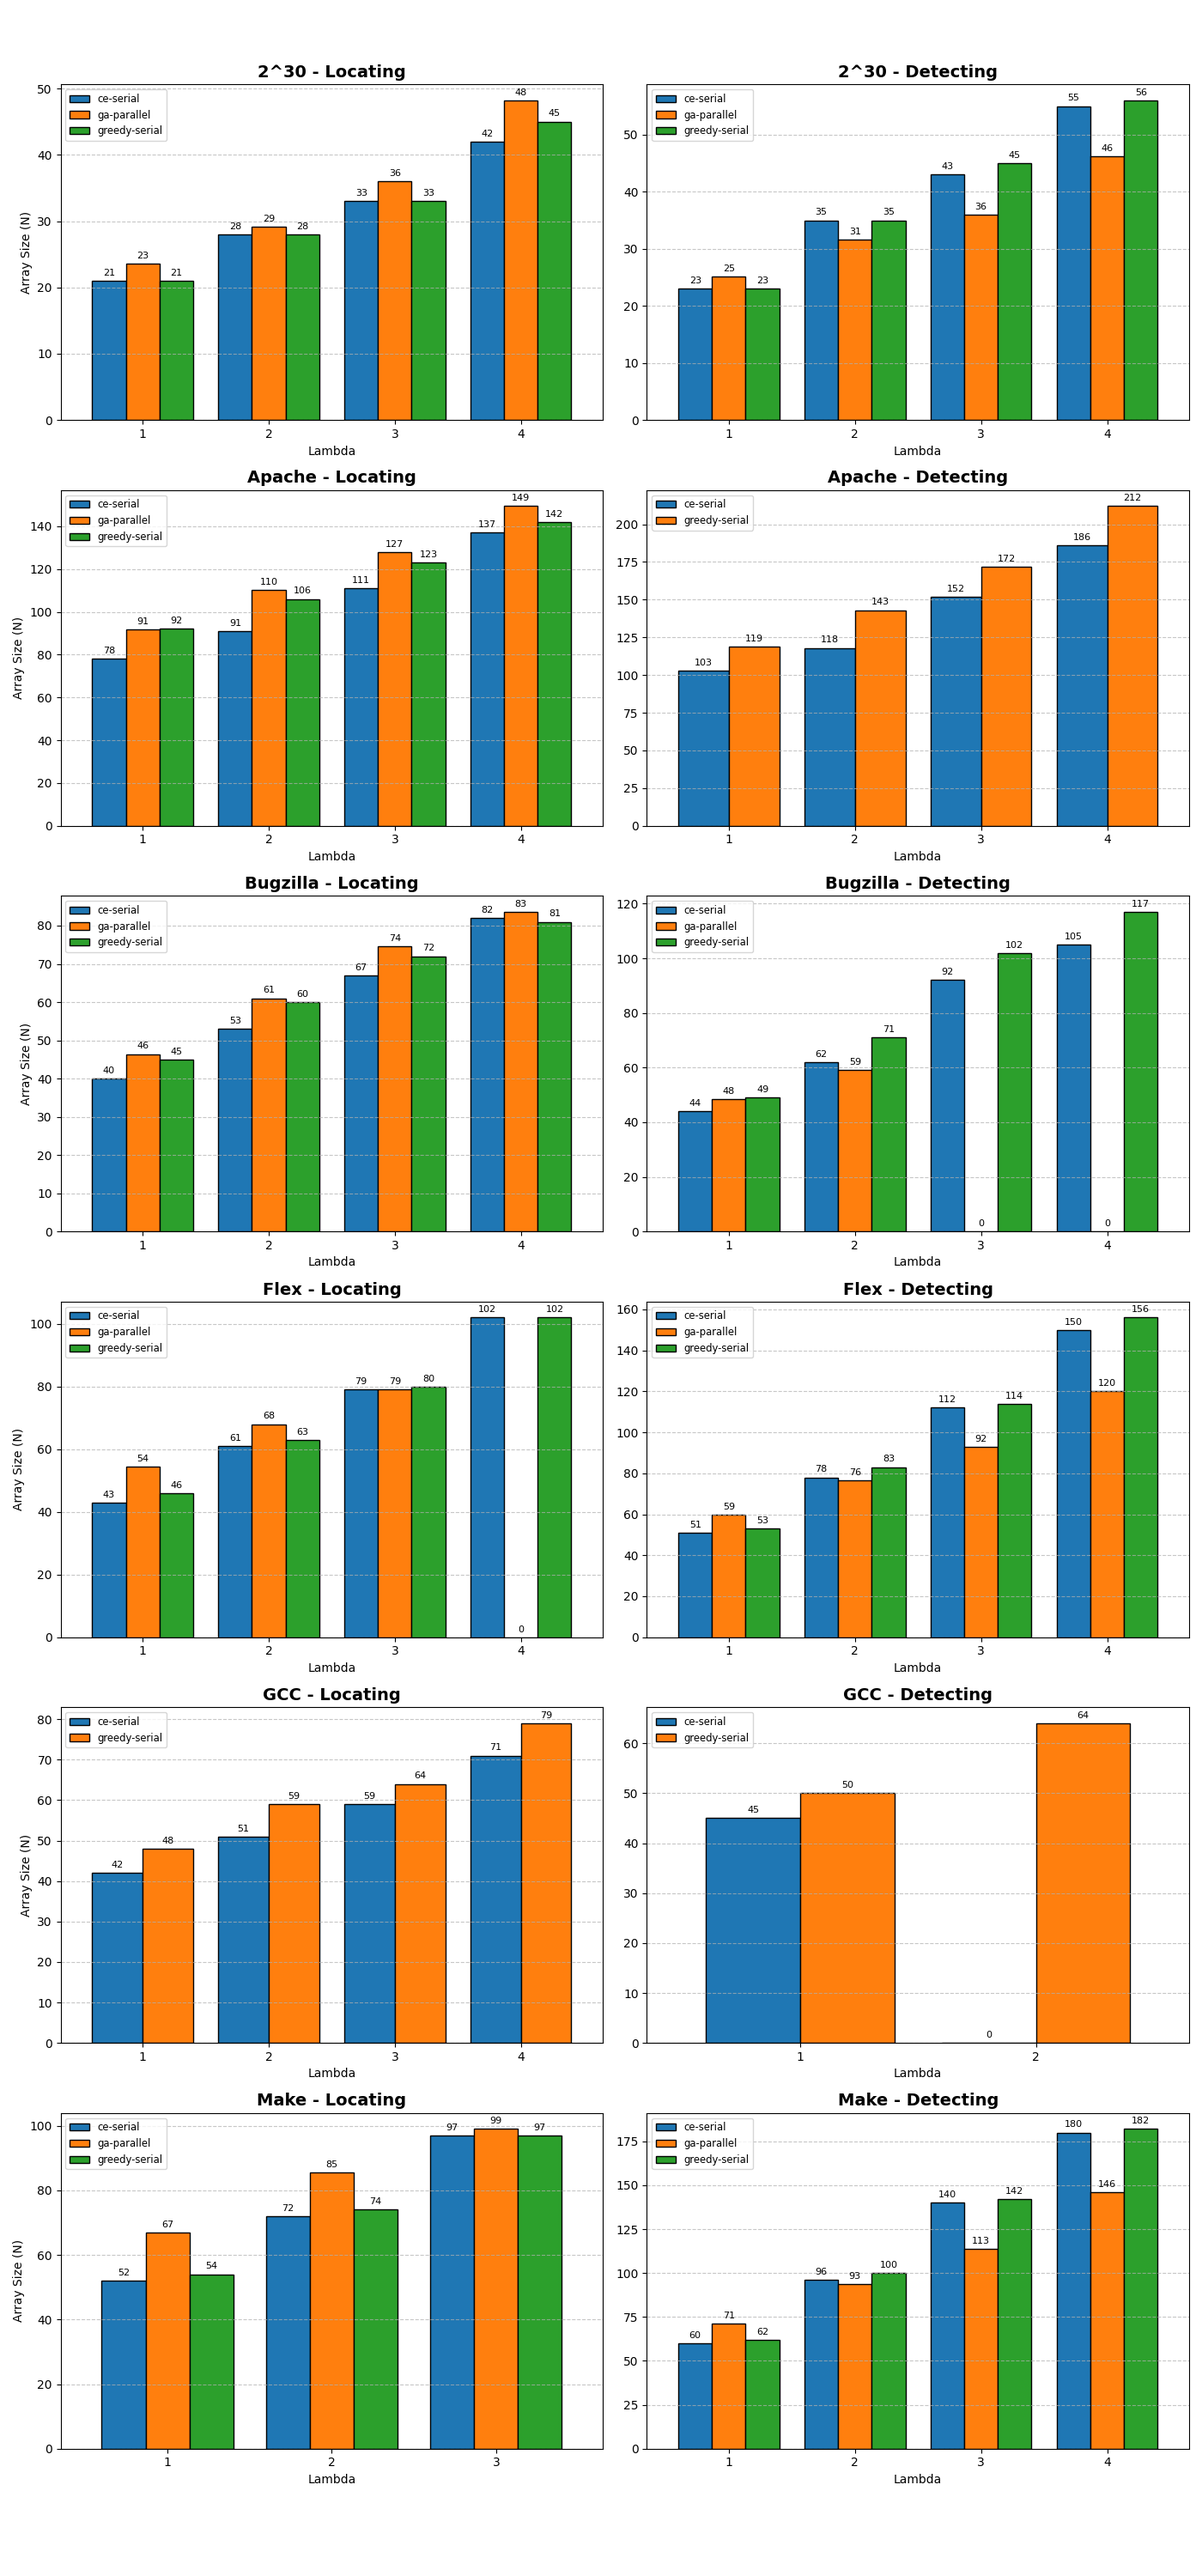
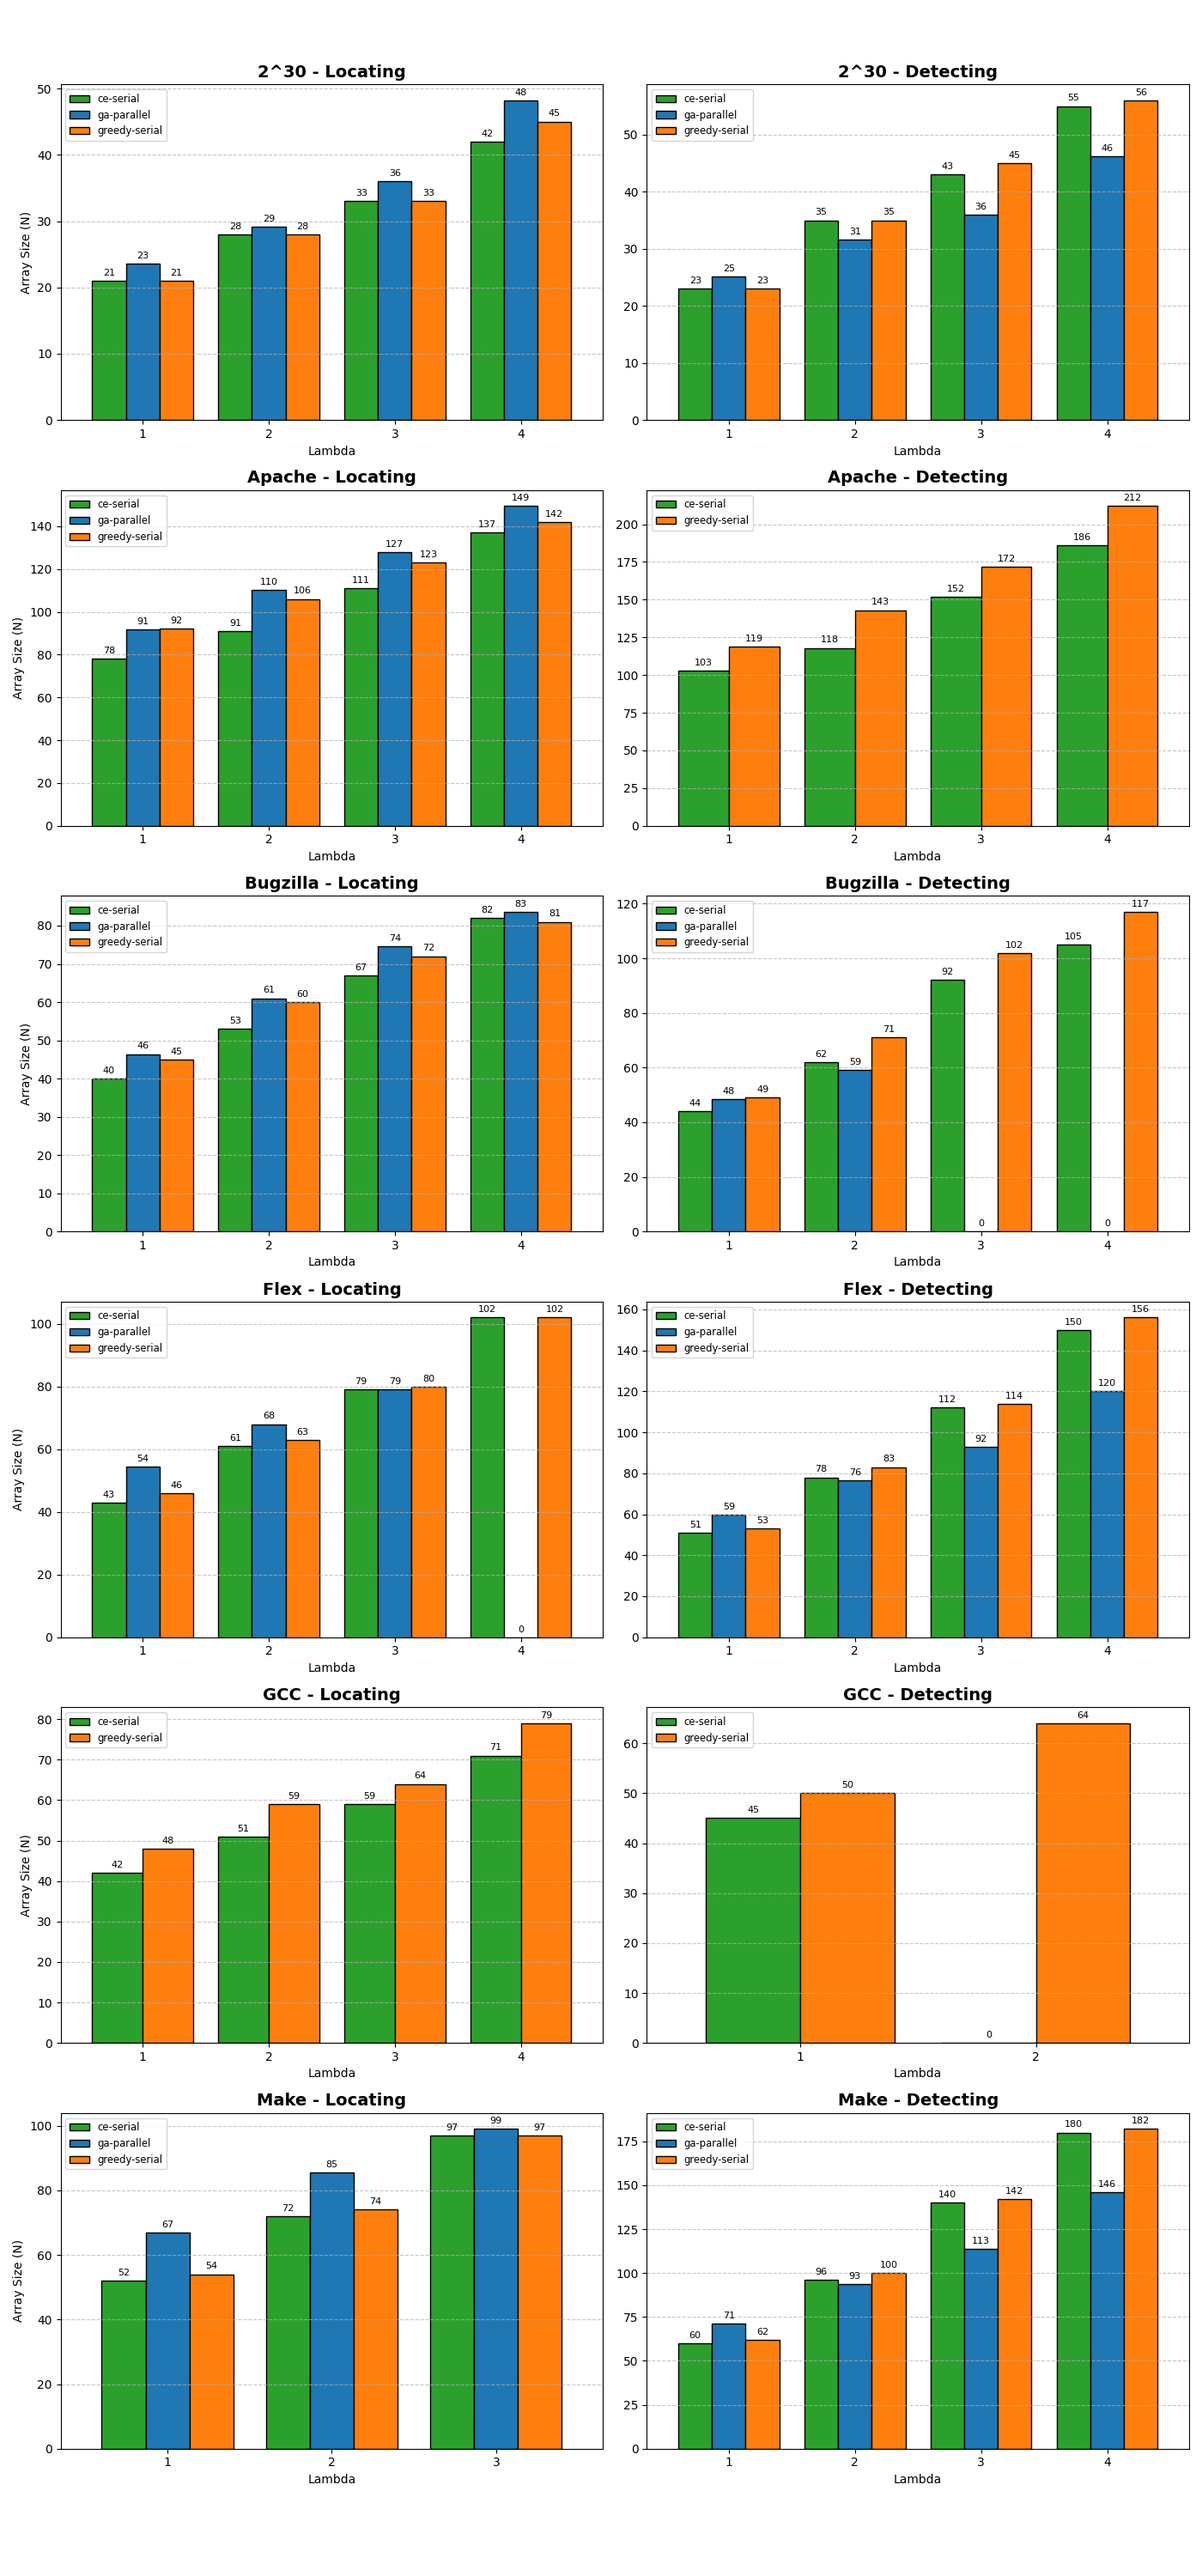
Refactor code structure for improved readability and maintainability

diff --git a/visualize_sizes.py b/visualize_sizes.py
@@ -6,8 +6,19 @@ import matplotlib.pyplot as plt
 import math
 
 # --- Configuration ---
+# Change this to "benchmark_logs_subset" if you are running the subset
 LOG_DIR = "benchmark_logs"
 OUTPUT_PREFIX = "benchmark_sizes_comparison"
+
+# --- FIXED COLOR PALETTE ---
+COLOR_MAP = {
+    'ga-parallel': '#1f77b4',    # Blue
+    'greedy-serial': '#ff7f0e',  # Orange
+    'ce-serial': '#2ca02c',      # Green
+    'ga-serial': '#9467bd',      # Purple
+    'greedy-parallel': '#8c564b',# Brown
+    'ce-parallel': '#e377c2'     # Pink
+}
 # ---------------------
 
 def parse_log_files(log_dir):
@@ -23,9 +34,9 @@ def parse_log_files(log_dir):
         if not filename.endswith(".log"): continue
         match = filename_re.match(filename)
         if not match: continue
-
+            
         config, array_type, method, policy, trial = match.groups()
-
+        
         try:
             with open(os.path.join(log_dir, filename), 'r') as f:
                 content = f.read()
@@ -46,36 +57,31 @@ def parse_log_files(log_dir):
     return parsed_data
 
 def generate_comparison_chart(df, configs, filename_suffix):
-    """
-    Generates a figure with len(configs) rows and 2 columns (Locating vs Detecting).
-    """
     if not configs:
         return
 
     num_rows = len(configs)
     fig, axes = plt.subplots(nrows=num_rows, ncols=2, figsize=(14, 5 * num_rows), squeeze=False)
 
-    # Global titles for columns (optional, but nice)
-    # plt.figtext(0.25, 0.99, "Locating Arrays", ha='center', fontsize=16, fontweight='bold')
-    # plt.figtext(0.75, 0.99, "Detecting Arrays", ha='center', fontsize=16, fontweight='bold')
-
     for i, config in enumerate(configs):
-        # Filter data for this specific config
         config_data = df[df['Config'] == config]
-
+        
         # --- LEFT PLOT: Locating ---
         ax_loc = axes[i][0]
         loc_data = config_data[config_data['ArrayType'] == 'locating']
-
+        
         if not loc_data.empty:
             pivot_loc = loc_data.pivot_table(index='Lambda', columns='RunType', values='N_total')
-            pivot_loc.plot(kind='bar', ax=ax_loc, width=0.8, edgecolor='black', rot=0)
+            
+            # Map columns to fixed colors
+            colors_loc = [COLOR_MAP.get(col, '#7f7f7f') for col in pivot_loc.columns]
+            
+            pivot_loc.plot(kind='bar', ax=ax_loc, width=0.8, edgecolor='black', rot=0, color=colors_loc)
             ax_loc.set_title(f"{config} - Locating", fontsize=14, fontweight='bold')
             ax_loc.set_ylabel("Array Size (N)")
             ax_loc.grid(axis='y', linestyle='--', alpha=0.7)
             ax_loc.legend(loc='upper left', fontsize='small')
-
-            # Add labels
+            
             for container in ax_loc.containers:
                 ax_loc.bar_label(container, fmt='%d', padding=3, fontsize=8)
         else:
@@ -85,23 +91,26 @@ def generate_comparison_chart(df, configs, filename_suffix):
         # --- RIGHT PLOT: Detecting ---
         ax_det = axes[i][1]
         det_data = config_data[config_data['ArrayType'] == 'detecting']
-
+        
         if not det_data.empty:
             pivot_det = det_data.pivot_table(index='Lambda', columns='RunType', values='N_total')
-            pivot_det.plot(kind='bar', ax=ax_det, width=0.8, edgecolor='black', rot=0)
+            
+            # Map columns to fixed colors
+            colors_det = [COLOR_MAP.get(col, '#7f7f7f') for col in pivot_det.columns]
+            
+            pivot_det.plot(kind='bar', ax=ax_det, width=0.8, edgecolor='black', rot=0, color=colors_det)
             ax_det.set_title(f"{config} - Detecting", fontsize=14, fontweight='bold')
-            ax_det.set_ylabel("") # Hide Y label on right to save space? Or keep it.
+            ax_det.set_ylabel("") 
             ax_det.grid(axis='y', linestyle='--', alpha=0.7)
             ax_det.legend(loc='upper left', fontsize='small')
 
-            # Add labels
             for container in ax_det.containers:
                 ax_det.bar_label(container, fmt='%d', padding=3, fontsize=8)
         else:
             ax_det.text(0.5, 0.5, "No Detecting Data\n(Timeout?)", ha='center', va='center')
             ax_det.set_title(f"{config} - Detecting")
 
-    plt.tight_layout(rect=[0, 0.03, 1, 0.98]) # Make room for main title if needed
+    plt.tight_layout(rect=[0, 0.03, 1, 0.98]) 
     output_file = f"{OUTPUT_PREFIX}_{filename_suffix}.png"
     plt.savefig(output_file)
     print(f"Saved comparison chart to '{output_file}'")
@@ -112,22 +121,22 @@ if __name__ == "__main__":
     if not data:
         print("No data parsed.")
         sys.exit(0)
-
+        
     df = pd.DataFrame(data)
-
-    # 1. Aggregate Trials (Mean N)
+    
+    # Aggregate Trials (Mean N)
     df_agg = df.groupby(['Config', 'ArrayType', 'Lambda', 'RunType'])['N_total'].mean().reset_index()
 
-    # 2. Get unique configs and sort them
+    # Get unique configs and sort them
     all_configs = sorted(df_agg['Config'].unique())
-
-    # 3. Split into chunks (e.g., max 6 rows per image)
+    
+    # Split into chunks
     CHUNK_SIZE = 6
     total_chunks = math.ceil(len(all_configs) / CHUNK_SIZE)
-
+    
     for chunk_idx in range(total_chunks):
         start_i = chunk_idx * CHUNK_SIZE
         end_i = start_i + CHUNK_SIZE
         config_chunk = all_configs[start_i:end_i]
-
+        
         generate_comparison_chart(df_agg, config_chunk, f"part{chunk_idx+1}")

diff --git a/visualize_benchmarks.py b/visualize_benchmarks.py
@@ -1,12 +1,23 @@
 import pandas as pd
 import matplotlib.pyplot as plt
 import sys
+import numpy as np
 
 # --- Configuration ---
-INPUT_FILE = "benchmark_results.csv"
-# Configurations that take significantly longer and skew the chart scale
-OUTLIER_CONFIGS = ["GCC", "Mobile"]
-# ---
+INPUT_FILE = "benchmark_results.csv" # Change to subset if needed
+OUTPUT_LOCATING = "benchmark_time_locating_log.png"
+OUTPUT_DETECTING = "benchmark_time_detecting_log.png"
+
+# --- FIXED COLOR PALETTE ---
+COLOR_MAP = {
+    'ga-parallel': '#1f77b4',    # Blue
+    'greedy-serial': '#ff7f0e',  # Orange
+    'ce-serial': '#2ca02c',      # Green
+    'ga-serial': '#9467bd',      # Purple
+    'greedy-parallel': '#8c564b',# Brown
+    'ce-parallel': '#e377c2'     # Pink
+}
+# ---------------------
 
 def plot_data(df, title, output_file):
     if df.empty:
@@ -25,30 +36,50 @@ def plot_data(df, title, output_file):
     final_stats['std'] = final_stats['std'].fillna(0)
     final_stats['RunType'] = final_stats['Method'] + '-' + final_stats['Policy']
 
-    # Pivot
-    pivot_mean = final_stats.pivot(index='Config', columns='RunType', values='mean').fillna(0)
-    pivot_std = final_stats.pivot(index='Config', columns='RunType', values='std').fillna(0)
+    # Pivot (Notice we DO NOT fill NaNs with 0 here anymore, because log(0) breaks the chart)
+    pivot_mean = final_stats.pivot(index='Config', columns='RunType', values='mean')
+    pivot_std = final_stats.pivot(index='Config', columns='RunType', values='std')
+
+    # Map the columns to our fixed colors
+    bar_colors = [COLOR_MAP.get(col, '#7f7f7f') for col in pivot_mean.columns]
 
     # Plot
     ax = pivot_mean.plot(
         kind='bar',
-        figsize=(14, 8),
+        figsize=(15, 8),
         width=0.8,
         yerr=pivot_std,
         capsize=4,
         edgecolor="black",
-        rot=0
+        rot=0,
+        color=bar_colors
     )
 
-    ax.set_title(f'{title} Performance (Avg Total Time)', fontsize=16, pad=20)
-    ax.set_ylabel('Time (seconds)', fontsize=12)
+    # --- THE MAGIC: Set Y-Axis to Logarithmic Scale ---
+    ax.set_yscale('log')
+
+    ax.set_title(f'{title} Performance (Avg Total Time - Log Scale)', fontsize=16, pad=20)
+    ax.set_ylabel('Time (seconds) [Log10 Scale]', fontsize=12)
     ax.set_xlabel('Configuration', fontsize=12)
-    ax.yaxis.grid(True, linestyle='--', alpha=0.7)
     
-    # Add labels
+    # Add minor grid lines which look great on log charts
+    ax.yaxis.grid(True, linestyle='-', alpha=0.7, which='major')
+    ax.yaxis.grid(True, linestyle='--', alpha=0.3, which='minor')
+    ax.set_axisbelow(True)
+    
+    # Add labels to the top of the bars
     for container in ax.containers:
         if isinstance(container[0], plt.Rectangle):
-            labels = [f'{v:.2f}' if v > 0 else "T/O" for v in container.datavalues]
+            labels = []
+            for v in container.datavalues:
+                if pd.isna(v) or v <= 0:
+                    labels.append("T/O") # Timeout / No Data
+                else:
+                    # Format standard numbers cleanly
+                    if v < 10:
+                        labels.append(f'{v:.2f}')
+                    else:
+                        labels.append(f'{int(v)}')
             ax.bar_label(container, labels=labels, padding=3, fontsize=8)
 
     plt.tight_layout()
@@ -63,34 +94,21 @@ def main():
         print(f"Error reading {INPUT_FILE}: {e}")
         sys.exit(1)
 
-    # 1. Clean Data
+    # Clean Data
     if 'Status' in data.columns:
         data = data[data['Status'] == 'COMPLETED']
     
-    # Drop duplicates from appended runs
     data = data.drop_duplicates(subset=['Config', 'ArrayType', 'Method', 'Policy', 'd', 't', 'lambda', 'Trial'])
-    
     data['Time_s'] = pd.to_numeric(data['Time_ms'], errors='coerce') / 1000.0
     data = data.dropna(subset=['Time_s'])
 
-    # 2. Split by Array Type
+    # Split by Array Type (No longer splitting by outliers!)
     locating_df = data[data['ArrayType'] == 'locating']
     detecting_df = data[data['ArrayType'] == 'detecting']
 
-    # 3. Split by Standard vs Large Scale (Outliers)
-    loc_outliers = locating_df[locating_df['Config'].isin(OUTLIER_CONFIGS)]
-    loc_normal = locating_df[~locating_df['Config'].isin(OUTLIER_CONFIGS)]
-
-    det_outliers = detecting_df[detecting_df['Config'].isin(OUTLIER_CONFIGS)]
-    det_normal = detecting_df[~detecting_df['Config'].isin(OUTLIER_CONFIGS)]
-
-    # 4. Plot Locating
-    plot_data(loc_normal, "Locating Array (Standard Scale)", "benchmark_time_locating_standard.png")
-    plot_data(loc_outliers, "Locating Array (Large Scale: GCC, Mobile)", "benchmark_time_locating_large.png")
-    
-    # 5. Plot Detecting
-    plot_data(det_normal, "Detecting Array (Standard Scale)", "benchmark_time_detecting_standard.png")
-    plot_data(det_outliers, "Detecting Array (Large Scale: GCC, Mobile)", "benchmark_time_detecting_large.png")
+    # Plot everything onto just two charts
+    plot_data(locating_df, "Locating Array", OUTPUT_LOCATING)
+    plot_data(detecting_df, "Detecting Array", OUTPUT_DETECTING)
 
 if __name__ == "__main__":
     main()

diff --git a/benchmark_table.tex b/benchmark_table.tex
@@ -7,17 +7,17 @@
 RunType & ce (serial) & ga (parallel) & greedy (serial) \\
 Config &  &  &  \\
 \midrule
-2^30 & 0.89 $\pm$ 0.01 & 0.07 $\pm$ 0.03 & 0.25 $\pm$ 0.00 \\
-Apache & 8.49 $\pm$ 0.05 & 1.06 $\pm$ 0.06 & 3.08 $\pm$ 0.02 \\
-Bugzilla & 3.90 $\pm$ 0.06 & 0.36 $\pm$ 0.03 & 1.17 $\pm$ 0.03 \\
-Flex & 0.31 $\pm$ 0.00 & 0.10 $\pm$ 0.01 & 0.07 $\pm$ 0.00 \\
-GCC & 273.21 $\pm$ 1.55 & T/O & 115.50 $\pm$ 0.69 \\
-Make & 0.34 $\pm$ 0.00 & 0.19 $\pm$ 0.05 & 0.07 $\pm$ 0.00 \\
-Mobile & 681.27 $\pm$ 3.00 & T/O & 281.59 $\pm$ 2.04 \\
-SPINS & 0.20 $\pm$ 0.00 & 0.12 $\pm$ 0.04 & 0.04 $\pm$ 0.00 \\
-SPINV & 0.99 $\pm$ 0.09 & 0.25 $\pm$ 0.03 & 0.28 $\pm$ 0.00 \\
-TCAS & 1.88 $\pm$ 0.02 & 0.60 $\pm$ 0.05 & 0.31 $\pm$ 0.00 \\
-Wireless & 7.01 $\pm$ 0.03 & 1.15 $\pm$ 0.12 & 1.43 $\pm$ 0.02 \\
+2^30 & 0.84 $\pm$ 0.01 & 0.15 $\pm$ 0.08 & 0.23 $\pm$ 0.00 \\
+Apache & 7.95 $\pm$ 0.04 & 1.06 $\pm$ 0.12 & 2.84 $\pm$ 0.02 \\
+Bugzilla & 3.50 $\pm$ 0.03 & 0.38 $\pm$ 0.04 & 1.03 $\pm$ 0.01 \\
+Flex & 0.28 $\pm$ 0.00 & 0.10 $\pm$ 0.03 & 0.07 $\pm$ 0.00 \\
+GCC & 252.95 $\pm$ 1.83 & T/O & 111.93 $\pm$ 0.49 \\
+Make & 0.31 $\pm$ 0.01 & 0.14 $\pm$ 0.01 & 0.06 $\pm$ 0.00 \\
+Mobile & 606.26 $\pm$ 5.35 & T/O & 256.89 $\pm$ 3.69 \\
+SPINS & 0.18 $\pm$ 0.01 & 0.09 $\pm$ 0.01 & 0.04 $\pm$ 0.00 \\
+SPINV & 0.88 $\pm$ 0.01 & 0.23 $\pm$ 0.02 & 0.26 $\pm$ 0.01 \\
+TCAS & 1.67 $\pm$ 0.02 & 0.55 $\pm$ 0.07 & 0.29 $\pm$ 0.01 \\
+Wireless & 6.37 $\pm$ 0.06 & 1.13 $\pm$ 0.05 & 1.35 $\pm$ 0.01 \\
 \bottomrule
 \end{tabular}
 \end{table}
@@ -33,16 +33,16 @@ Wireless & 7.01 $\pm$ 0.03 & 1.15 $\pm$ 0.12 & 1.43 $\pm$ 0.02 \\
 RunType & ce (serial) & ga (parallel) & greedy (serial) \\
 Config &  &  &  \\
 \midrule
-2^30 & 21.76 $\pm$ 0.27 & 0.48 $\pm$ 0.29 & 5.65 $\pm$ 0.03 \\
-Apache & 380.65 $\pm$ 3.88 & T/O & 114.40 $\pm$ 1.14 \\
-Bugzilla & 35.91 $\pm$ 0.61 & 0.60 $\pm$ 0.06 & 9.95 $\pm$ 0.07 \\
-Flex & 2.08 $\pm$ 0.04 & 0.37 $\pm$ 0.08 & 0.43 $\pm$ 0.00 \\
-GCC & T/O & T/O & 2433.19 $\pm$ 42.56 \\
-Make & 1.89 $\pm$ 0.01 & 0.54 $\pm$ 0.07 & 0.36 $\pm$ 0.01 \\
-SPINS & 1.67 $\pm$ 0.02 & 0.29 $\pm$ 0.06 & 0.26 $\pm$ 0.00 \\
-SPINV & 28.22 $\pm$ 0.14 & 0.96 $\pm$ 0.17 & 6.39 $\pm$ 0.03 \\
-TCAS & 229.52 $\pm$ 1.33 & 5.10 $\pm$ 0.38 & 33.44 $\pm$ 0.89 \\
-Wireless & 73.46 $\pm$ 0.47 & 1.29 $\pm$ 0.09 & 16.84 $\pm$ 0.16 \\
+2^30 & 18.93 $\pm$ 0.17 & 0.46 $\pm$ 0.32 & 4.92 $\pm$ 0.09 \\
+Apache & 328.49 $\pm$ 1.24 & T/O & 96.76 $\pm$ 0.64 \\
+Bugzilla & 30.66 $\pm$ 0.17 & 0.87 $\pm$ 0.17 & 8.52 $\pm$ 0.07 \\
+Flex & 1.81 $\pm$ 0.01 & 0.38 $\pm$ 0.08 & 0.38 $\pm$ 0.00 \\
+GCC & 2571.43 $\pm$ 11.55 & T/O & 2214.15 $\pm$ 40.76 \\
+Make & 1.65 $\pm$ 0.02 & 0.48 $\pm$ 0.04 & 0.32 $\pm$ 0.00 \\
+SPINS & 1.45 $\pm$ 0.01 & 0.29 $\pm$ 0.06 & 0.23 $\pm$ 0.00 \\
+SPINV & 24.91 $\pm$ 0.42 & 0.90 $\pm$ 0.08 & 5.70 $\pm$ 0.10 \\
+TCAS & 199.85 $\pm$ 1.32 & 6.18 $\pm$ 1.30 & 28.96 $\pm$ 0.19 \\
+Wireless & 64.83 $\pm$ 0.49 & 1.80 $\pm$ 0.79 & 14.64 $\pm$ 0.16 \\
 \bottomrule
 \end{tabular}
 \end{table}
